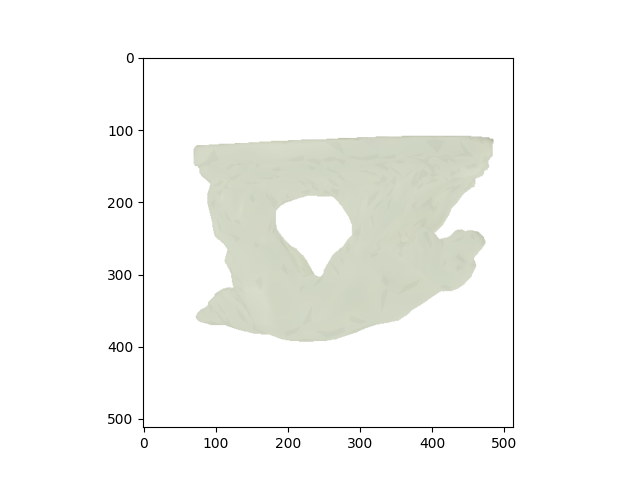
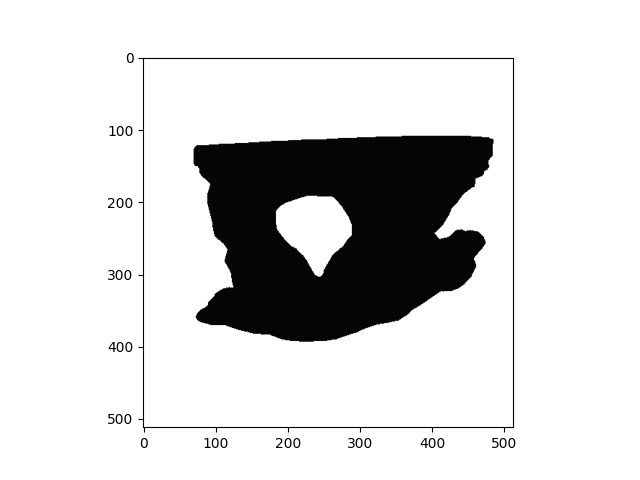
Must be a light or a normals problem

Changed region(s): [[0.2812, 0.2812, 0.7812, 0.7188]]

diff --git a/demo.py b/demo.py
@@ -44,29 +44,29 @@ matplotlib.pyplot.imshow(img)
 matplotlib.pyplot.savefig('gouraud_ambiance.png')
 matplotlib.pyplot.show()
 
-# # diffusion
-# print("____Diffusion____")
-# mat = PhongMaterial(0, kd, 0, n)
-# img = render_object(shader, focal, cam_eye, cam_lookat, cam_up, bg_color, M, N, H, W, verts, vertex_colors, face_indices, mat, lights, light_amb)
-# matplotlib.pyplot.imshow(img)
-# matplotlib.pyplot.savefig('gouraud_diffusion.png')
-# matplotlib.pyplot.show()
+# diffusion
+print("____Diffusion____")
+mat = PhongMaterial(0, kd, 0, n)
+img = render_object(shader, focal, cam_eye, cam_lookat, cam_up, bg_color, M, N, H, W, verts, vertex_colors, face_indices, mat, lights, light_amb)
+matplotlib.pyplot.imshow(img)
+matplotlib.pyplot.savefig('gouraud_diffusion.png')
+matplotlib.pyplot.show()
 
-# # specular
-# print("____Specular____")
-# mat = PhongMaterial(0, 0, ks, n)
-# img = render_object(shader, focal, cam_eye, cam_lookat, cam_up, bg_color, M, N, H, W, verts, vertex_colors, face_indices, mat, lights, light_amb)
-# matplotlib.pyplot.imshow(img)
-# matplotlib.pyplot.savefig('gouraud_specular.png')
-# matplotlib.pyplot.show()
+# specular
+print("____Specular____")
+mat = PhongMaterial(0, 0, ks, n)
+img = render_object(shader, focal, cam_eye, cam_lookat, cam_up, bg_color, M, N, H, W, verts, vertex_colors, face_indices, mat, lights, light_amb)
+matplotlib.pyplot.imshow(img)
+matplotlib.pyplot.savefig('gouraud_specular.png')
+matplotlib.pyplot.show()
 
-# # combination
-# print("____Ambiance + Diffusion + Specular____")
-# mat = PhongMaterial(ka, kd, ks, n)
-# img = render_object(shader, focal, cam_eye, cam_lookat, cam_up, bg_color, M, N, H, W, verts, vertex_colors, face_indices, mat, lights, light_amb)
-# matplotlib.pyplot.imshow(img)
-# matplotlib.pyplot.savefig('gouraud_combination.png')
-# matplotlib.pyplot.show()
+# combination
+print("____Ambiance + Diffusion + Specular____")
+mat = PhongMaterial(ka, kd, ks, n)
+img = render_object(shader, focal, cam_eye, cam_lookat, cam_up, bg_color, M, N, H, W, verts, vertex_colors, face_indices, mat, lights, light_amb)
+matplotlib.pyplot.imshow(img)
+matplotlib.pyplot.savefig('gouraud_combination.png')
+matplotlib.pyplot.show()
 
 
 # # Phong shader

diff --git a/calculate_normals.py b/calculate_normals.py
@@ -5,27 +5,26 @@ def calculate_normals(verts, faces):
     verts: object vertex coordinates
     faces: for each triangle the indices of the vertices of the verts matrix
     """
+    # For each triangle compute the cross products/vertical vectors to the surfaces
     crosses = []
     verts = np.transpose(verts)
     for i in range(faces.shape[1]):
-        # Compute the 3 edges and then the cross products
+        # Compute the 3 edges and then the cross products of the 2 vertices
         point1 = verts[faces[0][i]]
         point2 = verts[faces[1][i]]
         point3 = verts[faces[2][i]]
-        cross = np.cross(point1 - point2, point1 - point3)
-        crosses.append(cross)
+        crosses.append(np.cross(point1 - point2, point1 - point3))
     crosses = np.array(crosses)
 
     normals = []
     for i in range(verts.shape[0]):
-        # Find the new faces
-        # First find to which triangles the point exists
-        new_faces = []
+        # Find the faces where vertex belongs
+        vert_faces = []
         for j in range(faces.shape[1]):
-            new_faces.append(np.logical_or.reduce((faces[0][j] == i, faces[1][j] == i, faces[2][j] == i)))
+            vert_faces.append(np.logical_or.reduce((faces[0][j] == i, faces[1][j] == i, faces[2][j] == i)))
         # Then add all the vectors of the point vertical to each triangle
-        new_faces = np.array(new_faces)
-        n = np.sum(crosses[new_faces], axis=0)
+        vert_faces = np.array(vert_faces)
+        n = np.sum(crosses[vert_faces], axis=0)
         # Finally normalize the vector and store it
         normals.append(n / np.linalg.norm(n))
 

diff --git a/photography.py b/photography.py
@@ -23,12 +23,15 @@ def render_object(shader, focal, eye, lookat, up, bg_color, M, N, H, W, verts, v
     light_amb = the ambiance
     """
     # Calculate normal vectors
+    print("calculating normals...")
     normals = calculate_normals(verts, faces)
 
     # Calculate the projection
+    print("calculating projection...")
     p2d, depth = CameraLookingAt(focal, eye, lookat, up, verts)
 
     # Rasterize the 2D image
+    print("rasterizing image...")
     n2d = rasterize(p2d, M, N, H, W)
 
     # Create the canvas
@@ -45,6 +48,7 @@ def render_object(shader, focal, eye, lookat, up, bg_color, M, N, H, W, verts, v
     indices = np.argsort(tri_depths)
 
     # Paint the triangles
+    print("painting triangles...")
     if shader == "gouraud":
         faces = np.transpose(faces)
         verts = np.transpose(verts)

diff --git a/pointLight.py b/pointLight.py
@@ -34,5 +34,5 @@ def light(point, normal, vcolor, cam_pos, mat, lights, light_amb):
         speculars.append(lights[i].intensity * fatt * mat.ks * (np.dot((2 * normal * dotNL - L), V) ** mat.n))
 
     # Combination
-    I = vcolor + ambiance + np.sum(diffusions) + np.sum(speculars)
+    I = vcolor + ambiance + np.multiply(vcolor, np.sum(diffusions)) + np.multiply(vcolor, np.sum(speculars))
     return I
